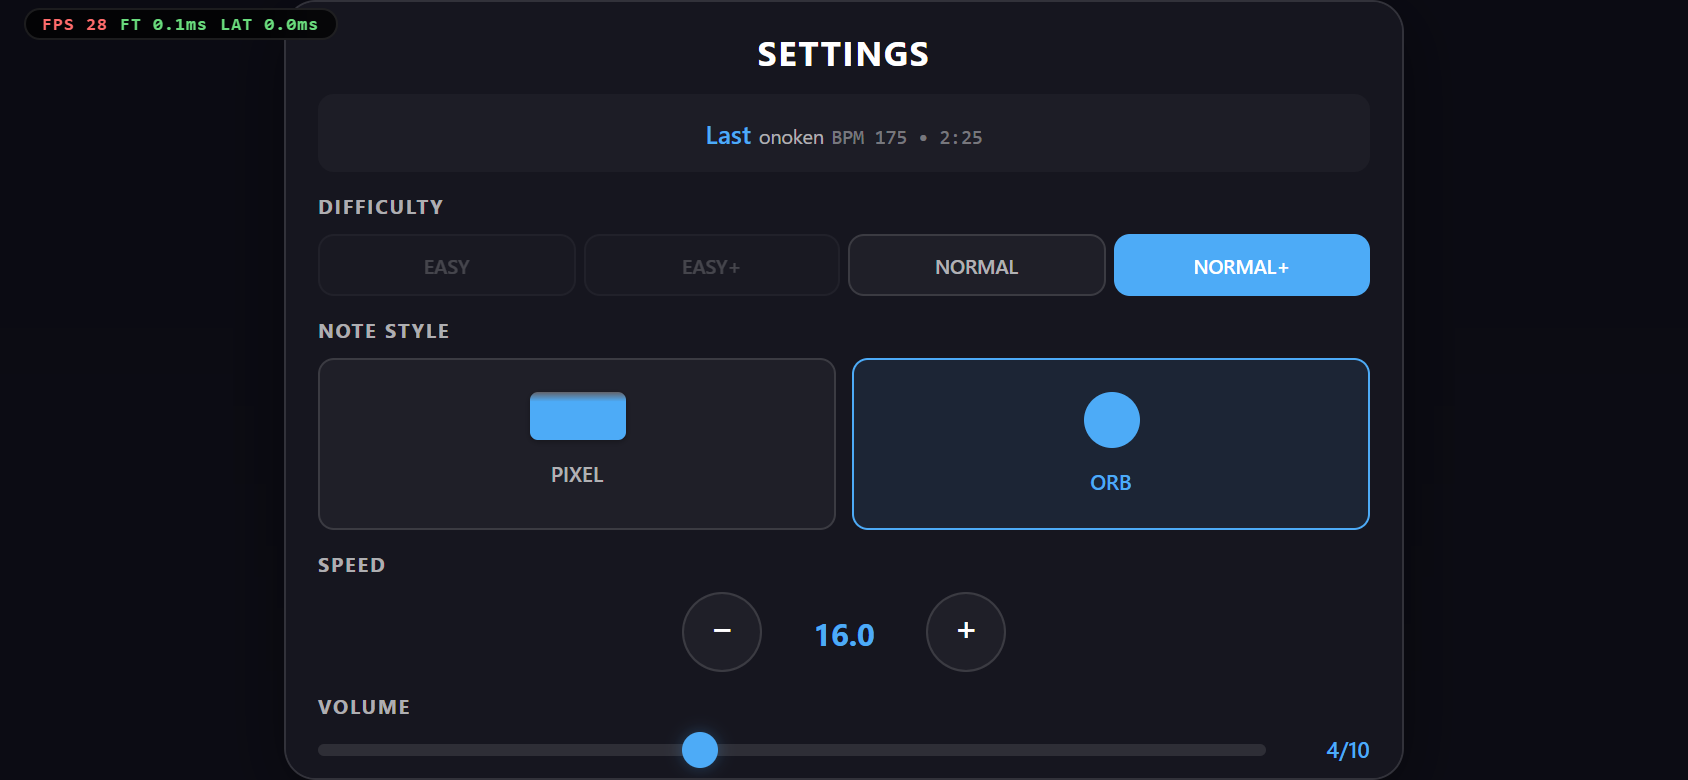
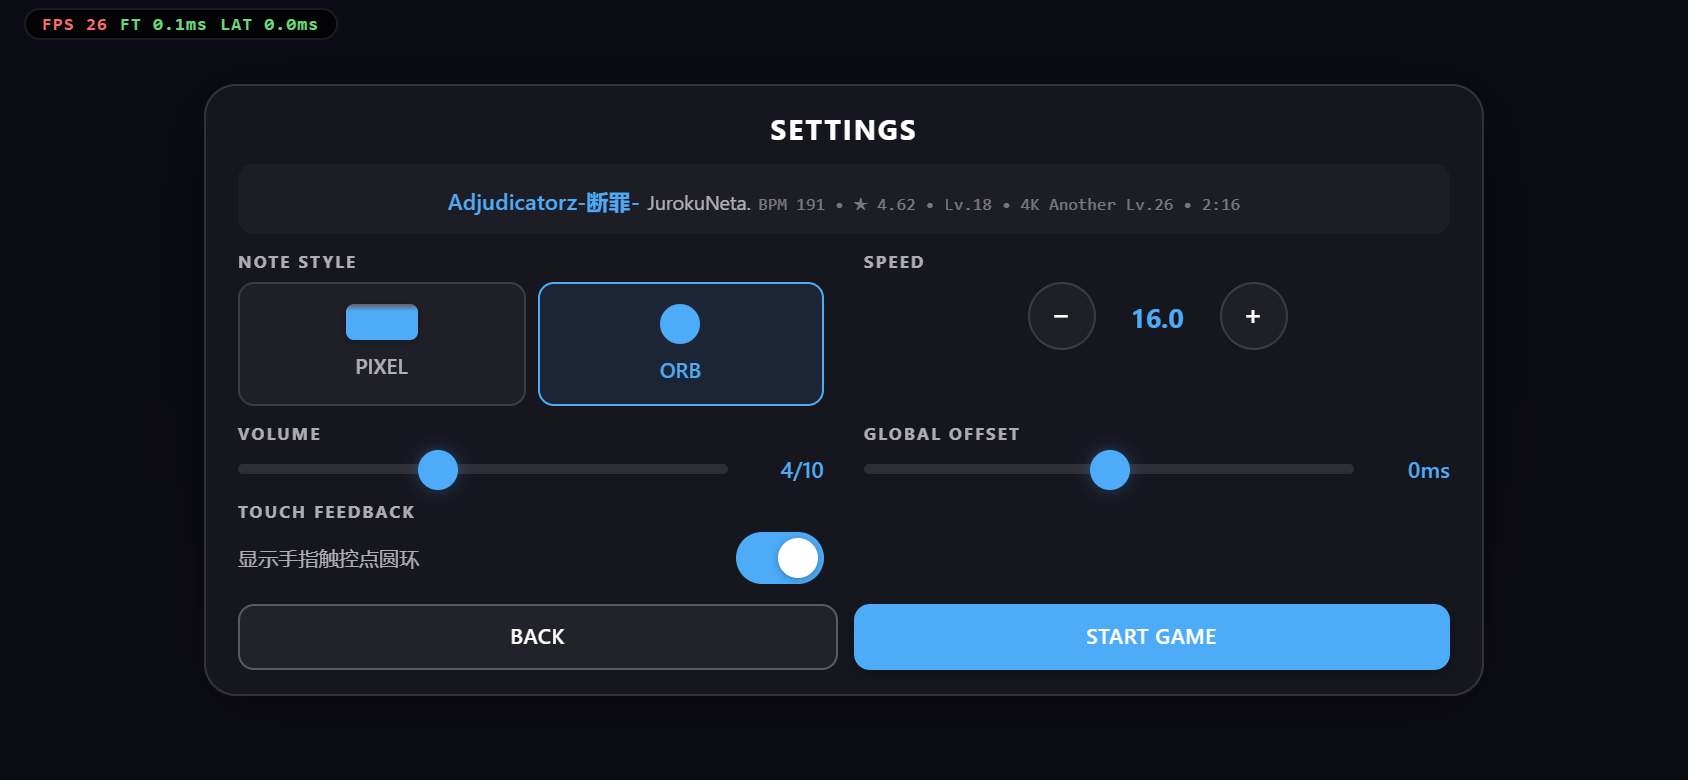
fix: 移动端横屏设置页与结算页溢出，矮窗口改为紧凑布局
问题（844×390 / 926×428 横屏实测）：
- 设置页 BACK / START GAME 按钮溢出屏幕底部（rect.bottom 535 > 视口 390），
  需手动滚动才能点到
- 结算页操作按钮（RETRY 以下全部）需滚动才能见，且图表边距在 72px
  高度下溢出

修复：
- 设置页矮窗口改双列 grid 布局（标题/歌曲信息/操作按钮跨两列），
  隐藏次要提示文字，全部内容一屏呈现无需滚动
- 结算页矮窗口：状态徽章与排名合并为一行、操作按钮两行排布、
  统计网格紧凑化，4 个按钮全部直接可见可点
- 结算折线图边距按容器高度自适应（<100px 时用紧凑边距与刻度步进），
  修复矮图表文字重叠/溢出

验证（Playwright 844×390 与 926×428 全界面扫描）：
- 6 个界面元素越界检查全部 OK，滚动位置 0 即可命中所有按钮
- 竖屏/桌面/触控点/START 加载全量回归无错误

diff --git a/css/style.css b/css/style.css
@@ -2198,36 +2198,145 @@ html.is-touch .mobile-btn::before {
     .song-card { padding: 8px; min-height: 40px; }
     .card-meta { display: none; }
 
-    /* ===== 设置面板：矮窗口全屏化 + 内部滚动 ===== */
+    /* ===== 设置面板：矮窗口改为双列紧凑网格，尽量不滚动 ===== */
     .settings-card {
-        width: min(96vw, 560px);
+        width: min(96vw, 640px);
         max-height: calc(100dvh - env(safe-area-inset-top, 0px) - env(safe-area-inset-bottom, 0px));
-        padding: 14px 16px;
-        gap: 10px;
+        padding: 12px 16px;
+        gap: 8px 20px;
         overflow-y: auto;
         -webkit-overflow-scrolling: touch;
+        display: grid;
+        grid-template-columns: 1fr 1fr;
+        align-content: start;
     }
 
-    /* ===== 结算画面：矮窗口可滚动 ===== */
+    /* 标题与歌曲信息横跨双列 */
+    .settings-card .settings-header,
+    .settings-card .settings-song-info {
+        grid-column: 1 / -1;
+    }
+
+    .settings-header h2 { font-size: 1rem; }
+
+    .settings-song-info { padding: 8px; }
+    .ssi-title { font-size: 0.8rem; }
+    .ssi-meta { font-size: 0.62rem; }
+
+    .settings-group { gap: 5px; margin: 0; }
+    .settings-label { font-size: 0.62rem; }
+
+    .diff-selector { grid-template-columns: repeat(2, 1fr); gap: 3px; }
+    .diff-btn { padding: 9px 2px; font-size: 0.62rem; }
+
+    .style-selector { gap: 6px; }
+    .style-btn { padding: 10px 8px; gap: 6px; }
+    .style-preview { width: 36px; height: 18px; }
+    .style-orb { width: 20px; height: 20px; }
+
+    .speed-control { gap: 10px; }
+    .speed-btn { width: 34px; height: 34px; font-size: 1rem; }
+    .speed-value { font-size: 0.95rem; min-width: 42px; }
+
+    .volume-control { gap: 8px; }
+    .volume-slider { height: 5px; }
+    .volume-slider::-webkit-slider-thumb { width: 20px; height: 20px; }
+    .volume-slider::-moz-range-thumb { width: 20px; height: 20px; }
+
+    .settings-hint { display: none; }   /* 矮窗口省略提示文字，保高度 */
+
+    .toggle-control { gap: 8px; }
+    .toggle-desc { font-size: 0.72rem; }
+    .toggle-switch { width: 44px; height: 26px; }
+    .toggle-knob { width: 20px; height: 20px; }
+    .toggle-switch[aria-checked="true"] .toggle-knob { transform: translateX(18px); }
+
+    /* 操作按钮横跨双列，固定在底部 */
+    .settings-actions {
+        grid-column: 1 / -1;
+        gap: 8px;
+        margin-top: 2px;
+    }
+    .settings-actions .btn { font-size: 0.75rem; padding: 10px 12px; }
+
+    /* ===== 结算画面：矮窗口双列紧凑，不滚动 ===== */
     .result-overlay {
         padding: calc(env(safe-area-inset-top, 0px) + 8px) 12px calc(env(safe-area-inset-bottom, 0px) + 8px);
         align-items: center;
     }
 
     .result-card {
-        max-width: min(96vw, 560px);
-        padding: 14px 16px;
+        max-width: min(96vw, 640px);
+        padding: 12px 16px;
         gap: 10px;
         max-height: 100%;
         overflow-y: auto;
         -webkit-overflow-scrolling: touch;
     }
 
+    .result-status { padding: 8px 14px; gap: 8px; }
+    .status-icon { font-size: 1.1rem; }
+    .status-text { font-size: 0.8rem; }
+
     .rank { font-size: 2.6rem; }
+    .rank-label { font-size: 0.7rem; }
+
+    .primary-stats { gap: 10px; }
+    .stat-big { padding: 10px 10px; }
     .stat-big .stat-value { font-size: 1.1rem; }
-    .chart-box { height: 80px; flex-shrink: 0; }
+
+    .stats-grid { gap: 8px; }
+    .stat-box { padding: 7px 4px; }
+    .stat-label { font-size: 0.55rem; margin-bottom: 3px; }
+    .stat-value { font-size: 0.8rem; }
+
+    .chart-box { height: 72px; flex-shrink: 0; }
+
     .result-actions { gap: 8px; }
-    .result-actions .btn { font-size: 0.75rem; padding: 9px 12px; }
+    .result-actions .btn { font-size: 0.72rem; padding: 9px 12px; }
+
+    /* 矮窗口：状态徽章与排名合并为一行，节省 50px 高度 */
+    .result-card .result-status {
+        width: auto;
+        min-width: 40%;
+        padding: 7px 14px;
+        gap: 8px;
+        animation: none;
+    }
+
+    .result-card .rank-display {
+        flex-direction: row;
+        gap: 10px;
+        animation: none;
+    }
+
+    .result-card .rank { line-height: 0.9; }
+
+    /* 主要成绩横向铺开 */
+    .result-card .primary-stats {
+        gap: 8px;
+        animation: none;
+    }
+
+    .result-card .stat-big { padding: 8px 8px; }
+    .result-card .stat-big .stat-label { margin-bottom: 4px; font-size: 0.6rem; }
+
+    .result-card .stats-grid { animation: none; }
+
+    /* 矮窗口：四个操作按钮合并为两行（主按钮一行 + 次按钮一行） */
+    .result-card .result-actions {
+        flex-direction: row;
+        flex-wrap: wrap;
+        animation: none;
+    }
+
+    .result-card .result-actions > .btn {
+        flex: 1 1 40%;
+    }
+
+    .result-card .result-actions .result-actions-row {
+        flex: 1 1 100%;
+    }
 
     /* ===== 排行榜：矮窗口全屏化 ===== */
     .lb-card {

diff --git a/js/renderer.js b/js/renderer.js
@@ -737,7 +737,12 @@ class Renderer {
         cCtx.clearRect(0, 0, w, h);
 
         if (historyData.length === 0) return;
-        const leftMargin = 40, topMargin = 20, bottomMargin = 20, rightMargin = 10;
+        // 矮窗口下图表容器只有 ~70px，边距按容器高度自适应，避免内容溢出
+        const compact = h < 100;
+        const leftMargin = compact ? 34 : 40;
+        const topMargin = compact ? 8 : 20;
+        const bottomMargin = compact ? 10 : 20;
+        const rightMargin = 10;
         const chartW = w - leftMargin - rightMargin;
         const chartH = h - topMargin - bottomMargin;
 
@@ -763,13 +768,15 @@ class Renderer {
         const yRange = yMax - yMin;
 
         cCtx.fillStyle = 'rgba(255,255,255,0.5)';
-        cCtx.font = '10px sans-serif';
+        cCtx.font = compact ? '8px sans-serif' : '10px sans-serif';
         cCtx.textAlign = 'right';
 
         const yTicks = this._generateYTicks(yMin, yMax);
-        for (let i = 0; i < yTicks.length; i++) {
+        // 矮容器时减少刻度数量，避免标签互相重叠
+        const tickStride = compact ? 2 : 1;
+        for (let i = 0; i < yTicks.length; i += tickStride) {
             const yPos = topMargin + chartH - (chartH * (yTicks[i] - yMin) / yRange);
-            cCtx.fillText(yTicks[i].toFixed(0) + '%', leftMargin - 4, yPos + 4);
+            cCtx.fillText(yTicks[i].toFixed(0) + '%', leftMargin - 4, yPos + (compact ? 3 : 4));
         }
 
         cCtx.strokeStyle = 'rgba(255,255,255,0.1)';
